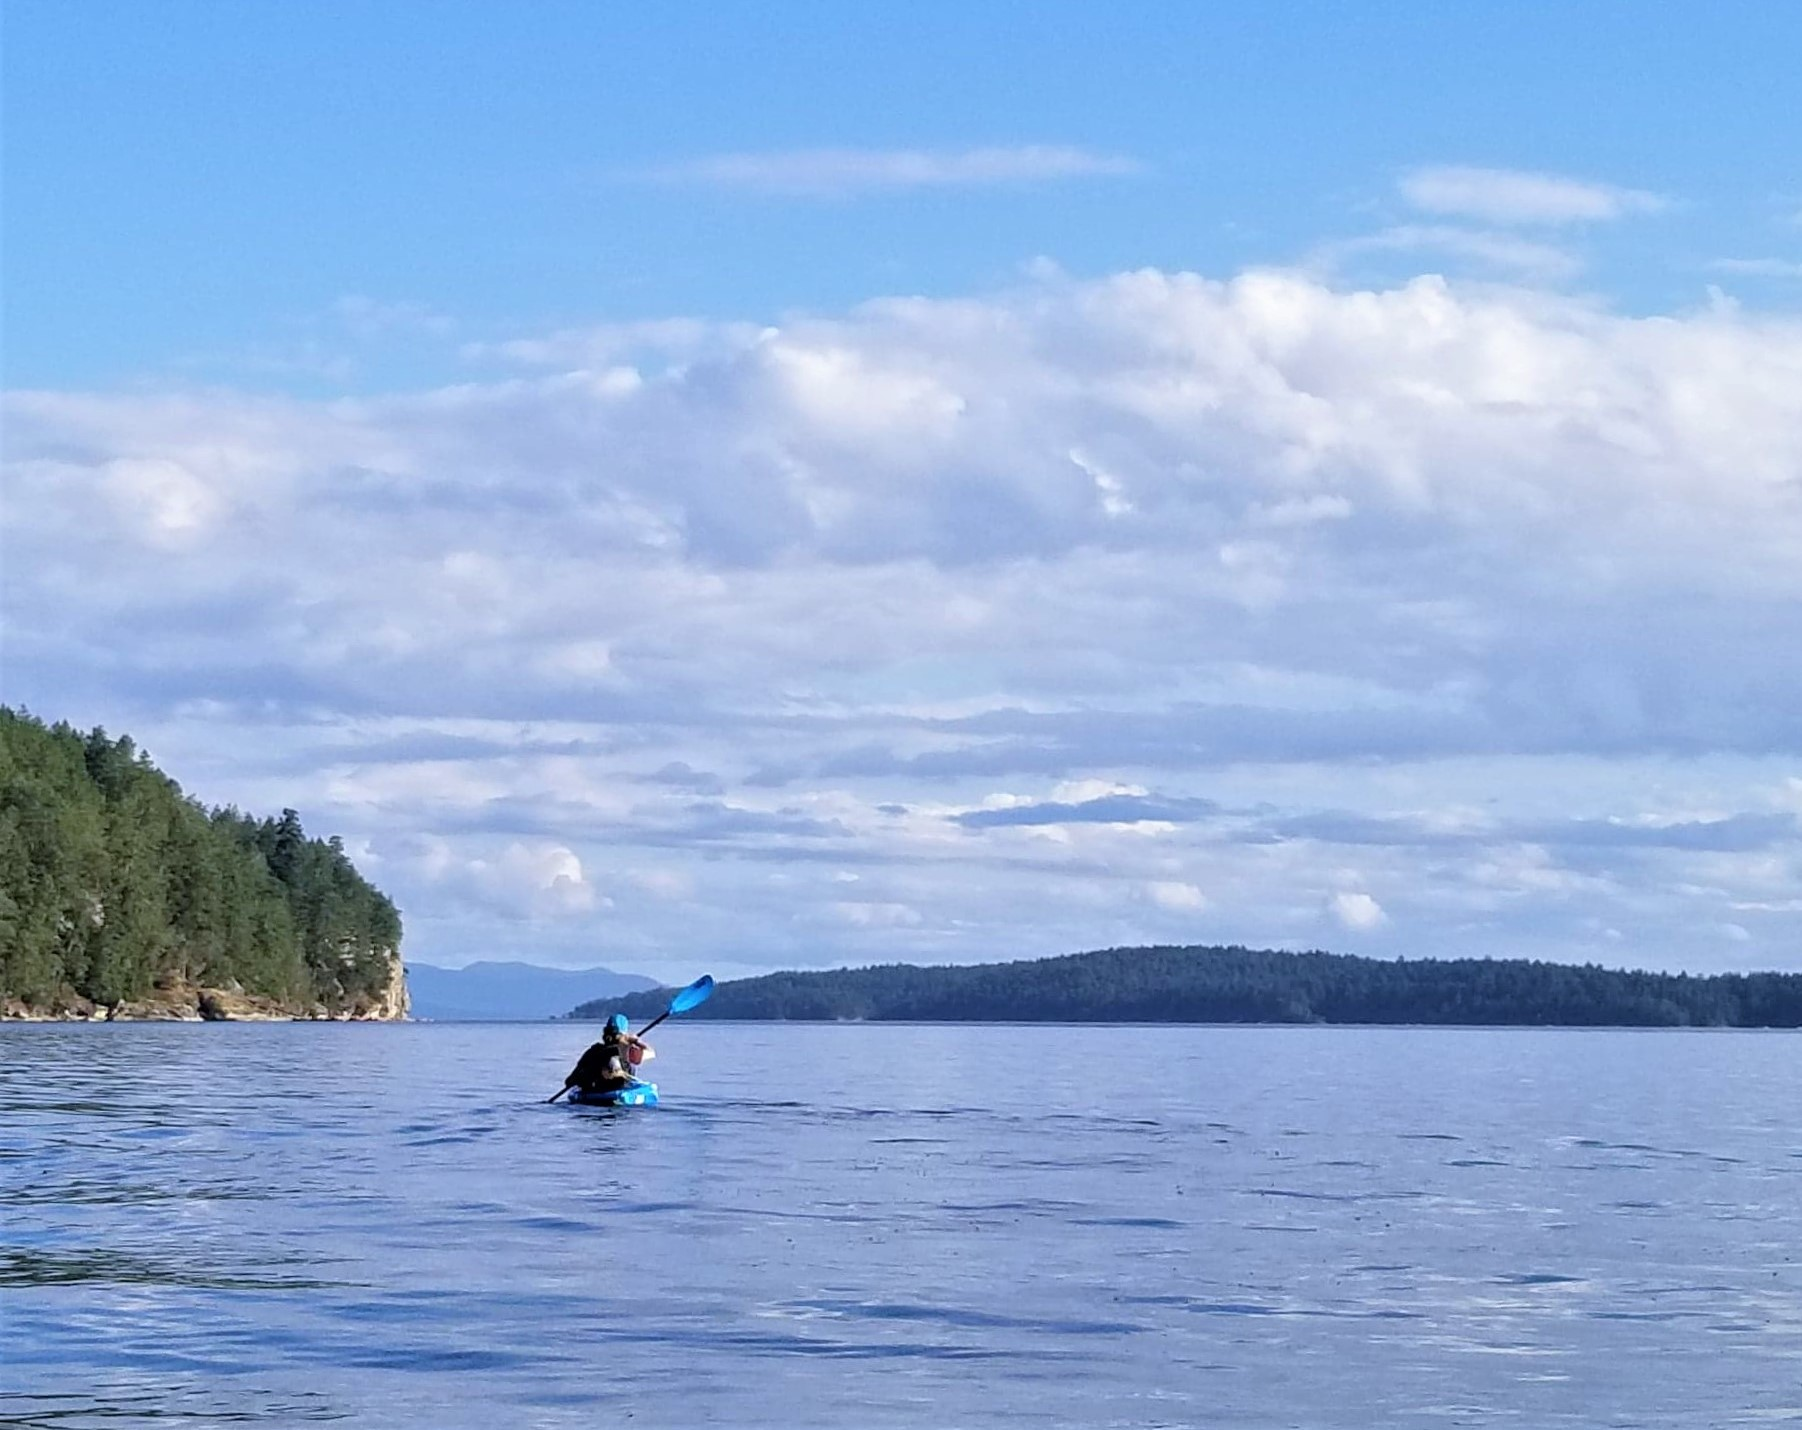
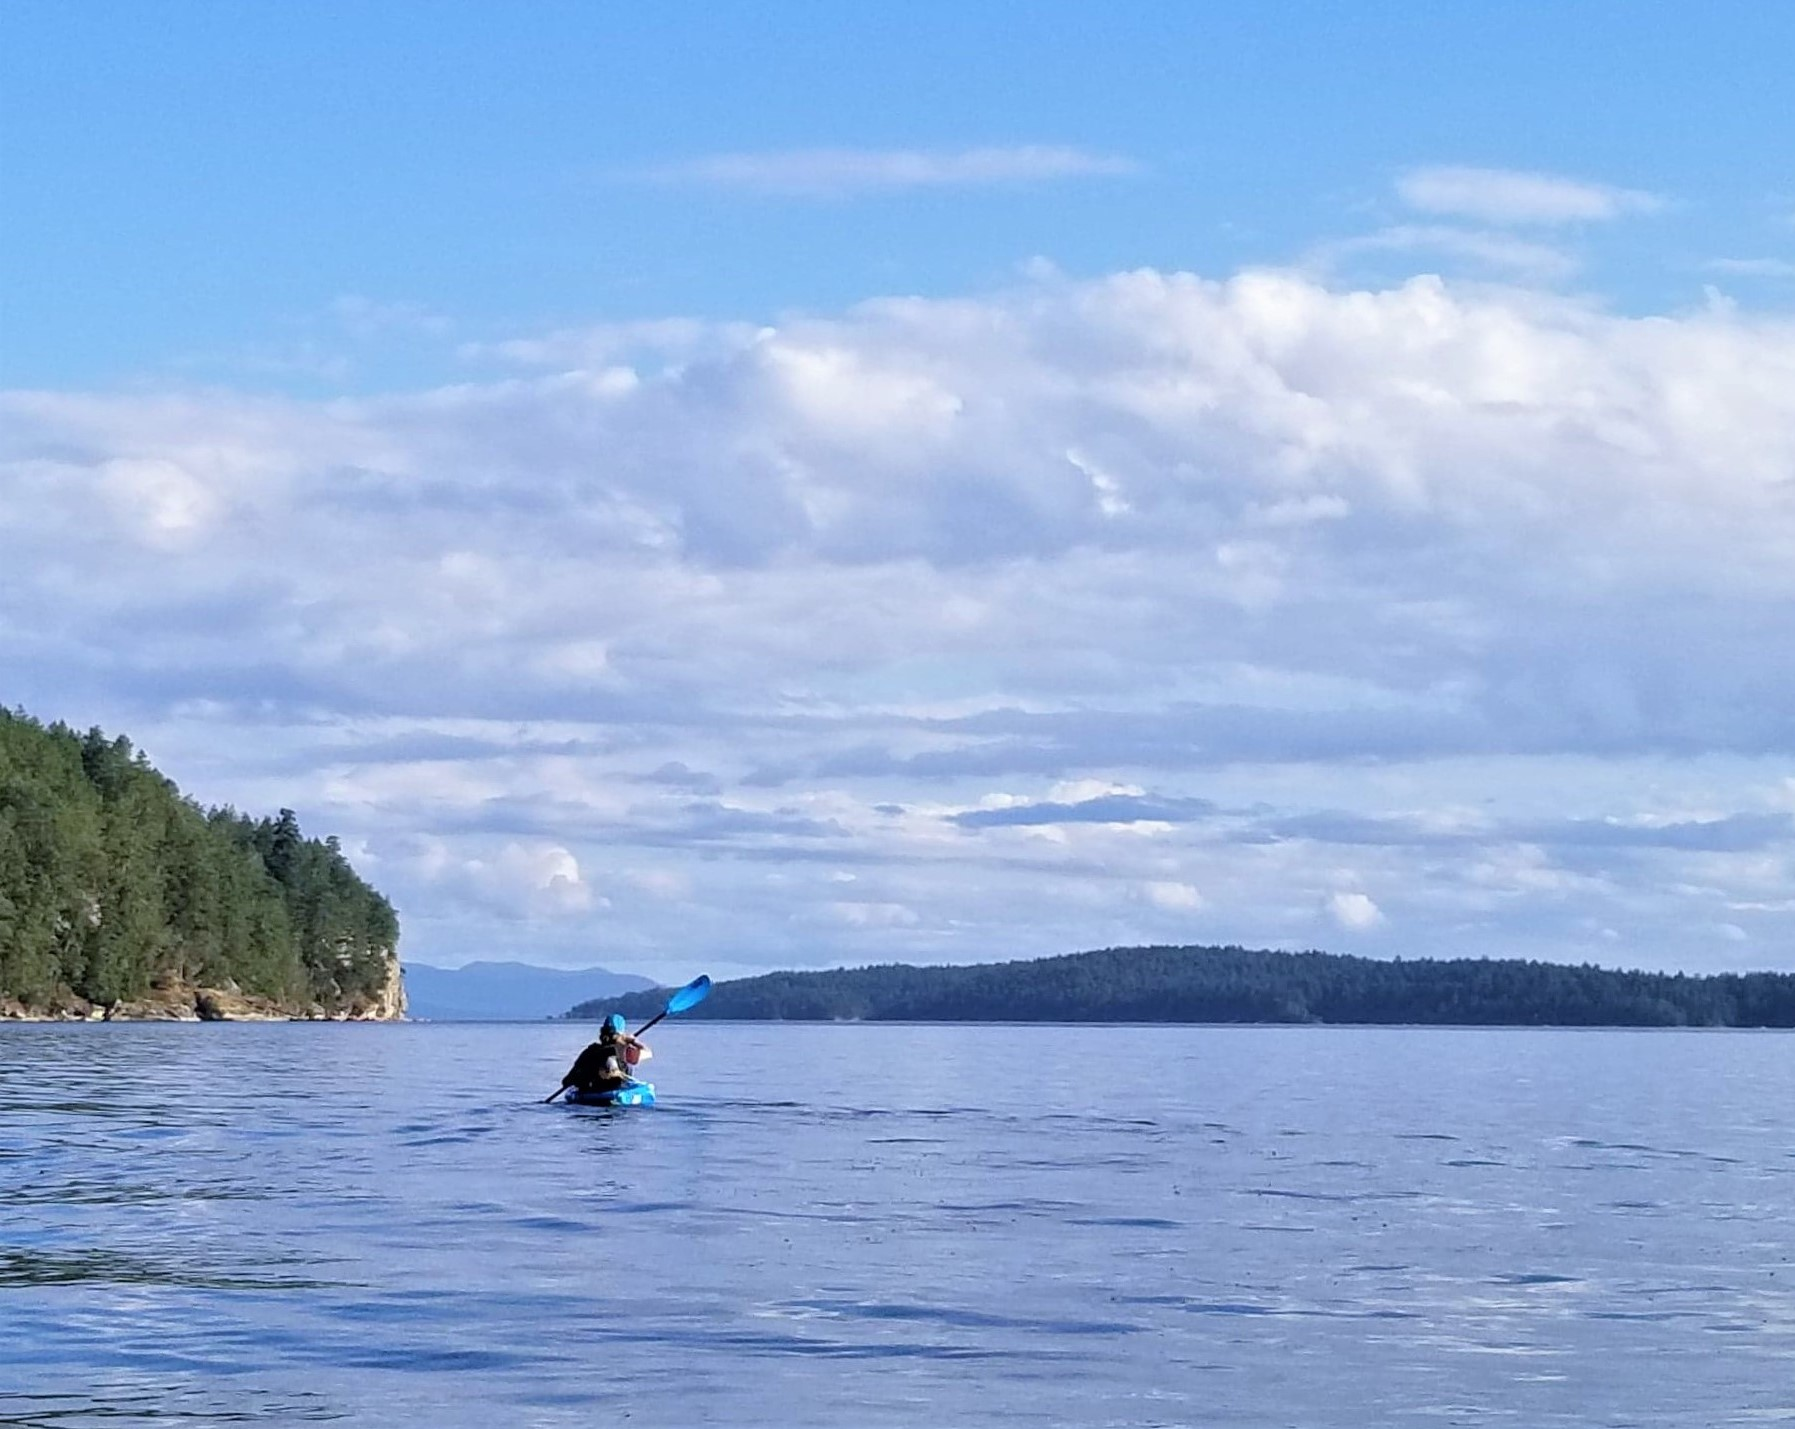
Change photo dim

diff --git a/index.md b/index.md
@@ -22,5 +22,5 @@ I love the outdoors and being active, so I also enjoy hiking, backpacking, campi
 <br>
 <br>
 
-<center><img src="/img/kayaking2.jpg" alt="KayakPhoto" height="300"/><img src="/img/steeple.jpg"  alt="SteeplePhoto" height="300"/></center>
+<center><img src="/img/kayaking2.jpg" alt="KayakPhoto" height="250"/><img src="/img/steeple.jpg"  alt="SteeplePhoto" height="250"/></center>
 
